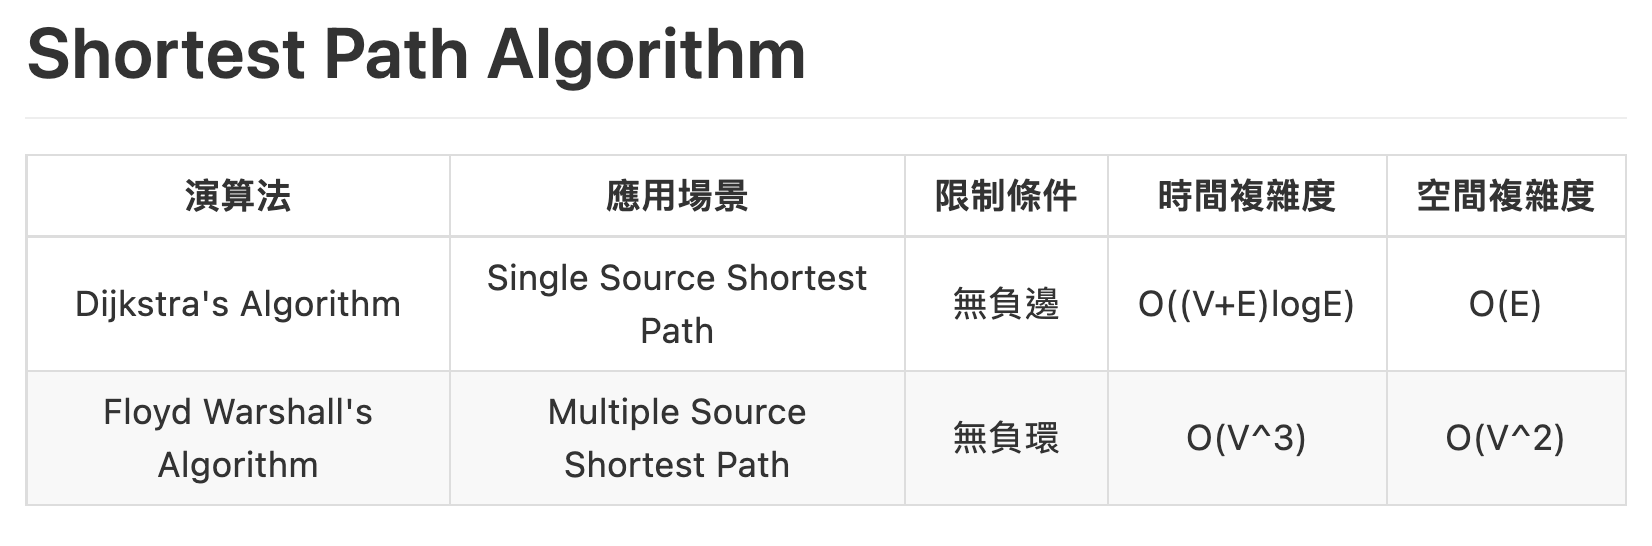
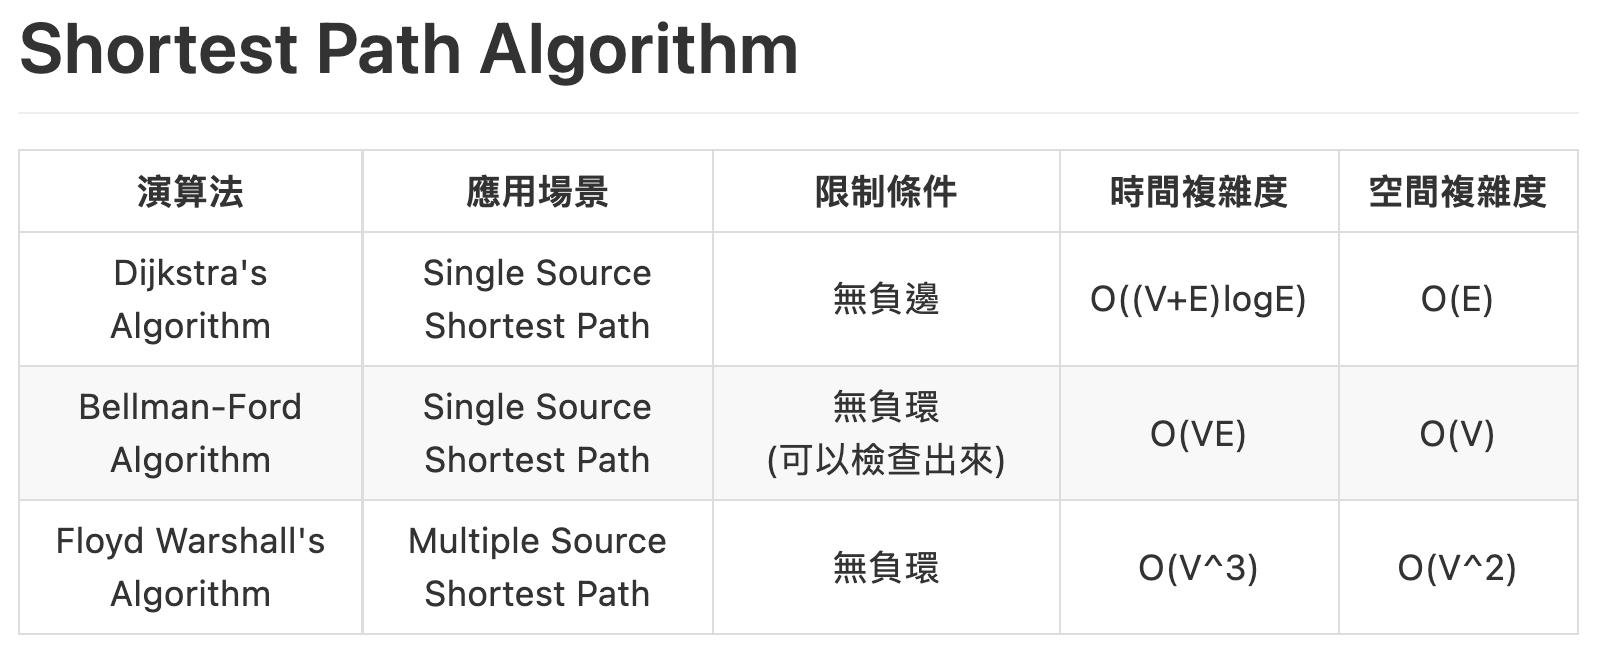
[Graph] Add more detailed introduction to shortest path algorithms

diff --git a/sprint/graph/shortest_path/overall.html b/sprint/graph/shortest_path/overall.html
@@ -27,6 +27,13 @@
                 <td>O(E)</td>
             </tr>
             <tr>
+                <td>Bellman-Ford Algorithm</td>
+                <td>Single Source Shortest Path</td>
+                <td>無負環(可以檢查出來)</td>
+                <td>O(VE)</td>
+                <td>O(V)</td>
+            </tr>
+            <tr>
                 <td>Floyd Warshall's Algorithm</td>
                 <td>Multiple Source Shortest Path</td>
                 <td>無負環</td>

diff --git a/sprint/graph/shortest_path/node.md b/sprint/graph/shortest_path/node.md
@@ -1,0 +1,149 @@
+# Shortest Path Algorithm
+## 常見的 shortest path algorithm
+<img src="./overall.img">
+<br>
+
+## 常見的縮寫
+- SSSP: Single-Source Shortest Path
+- MSSP: Multiple-Source Shortest Path
+
+<br>
+
+## Fundamentals
+1. Path Relaxation Property
+2. Convergence Property
+
+> Reference
+> [Fundamentals](http://alrightchiu.github.io/SecondRound/shortest-pathintrojian-jie.html)
+
+<br>
+
+## Dijkstra's Algorithm
+### Feature
+1. 是最快的 SSSP 演算法
+2. 限制條件是「圖上沒有負邊」
+3. 可以紀錄 parent 來回溯路徑
+
+<br>
+
+## Bellman-Ford Algorithm
+### Feature
+1. 是一個 SSSP 演算法
+2. 時間複雜度稍差一點，但是也有 O(VE)
+3. 非常 robust，基本上沒有限制條件
+4. 可以檢查負環
+4. 可以紀錄 parent 來回溯路徑
+
+### 核心概念
+- 迴圈跑 |V-1| 次，每次都把所有 edge relax 一次。
+    對任何一條路徑來說，因為圖上沒有環，所以最多只會由 |V-1| 個 edge 組成。
+    我們把 |V-1| x |E| 的所有 relaxation 攤開來看，會發現任何一條路徑
+    的所有 edge，一定有被按照「起點至終點」的順序 relax 一次。
+    而根據 Path Relaxation Property，我們可以知道每條路徑都會是最短路徑
+
+- 檢查負環
+    - 前面有提到，若整張圖沒有負環(即代表從 starting vertex 至圖上任何一點
+      一定有 shortest path/不通)，而事實上 path-relaxation property 也
+      是運用到這點才能證明出來。
+      
+      所以，"如果經過 |V-1| 次迴圈，還有邊可以被 relax，那就說明整張圖有出現負環。"
+    
+    - 因此，檢查方法就是再跑一個 |E| 次的迴圈，檢查每條邊是否還可以被 relax，
+      如果有任何一條邊可以被 relax，代表有負環。
+
+### Template
+```C++
+// Undirected Graph Version
+vector<int> bellman_ford(int n, vector<vector<int>>& edges, int start) {
+    vector<int> dis(n, 10000000);
+    dis[start] = 0;
+    for (int i = 0; i < n-1; i ++) {
+        for (auto& edge: edges) {
+            if (dis[edge[0]] + edge[2] < dis[edge[1]]) {
+                dis[edge[1]] = dis[edge[0]] + edge[2];
+            }
+            if (dis[edge[1]] + edge[2] < dis[edge[0]]) {
+                dis[edge[0]] = dis[edge[1]] + edge[2];
+            }
+        }
+    }
+
+    // Detect Negative Cycles
+    bool negCycle = false;
+    for (auto& edge: edges) {
+        if (dis[edge[0]] + edge[2] < dis[edge[1]]) {
+            negCycle = true;
+        }
+        if (dis[edge[1]] + edge[2] < dis[edge[0]]) {
+            negCycle = true;
+        }
+    }
+
+    return dis;
+}
+
+// Directed Graph Version
+vector<int> bellman_ford(int n, vector<vector<int>>& edges, int start) {
+    vector<int> dis(n, 10000000);
+    dis[start] = 0;
+    for (int i = 0; i < n-1; i ++) {
+        for (auto& edge: edges) {
+            if (dis[edge[0]] + edge[2] < dis[edge[1]]) {
+                dis[edge[1]] = dis[edge[0]] + edge[2];
+            }
+        }
+    }
+
+    // Detect Negative Cycles
+    bool negCycle = false;
+    for (auto& edge: edges) {
+        if (dis[edge[0]] + edge[2] < dis[edge[1]]) {
+            negCycle = true;
+        }
+    }
+
+    return dis;
+}
+```
+
+<br>
+
+## Floyd-Warshall Algorithm
+### Feature
+1. 是一個 MSSP 演算法
+2. 限制條件是「沒有負環」
+3. 無法得到最短路徑，只能得到最短距離
+
+### Template
+```C++
+#include <vector>
+using namespace std;
+
+vector<vector<int>> floyd(int n, vector<vector<int>>& edges) {
+    vector<vector<int>> G(n, vector<int>(n, 1000000));
+    
+    // Undirected Graph
+    for (auto& edge: edges) {
+        G[edge[0]][edge[1]] = edge[2];
+        G[edge[1]][edge[0]] = edge[2];
+    }
+
+    for (int i = 0; i < n; i ++) {
+        for (int j = 0; j < n; j ++) {
+            for (int k = 0; k < n; k ++) {
+                if (G[j][i] + G[i][k] < G[j][k]) {
+                    G[j][k] = G[j][i] + G[i][k];
+                }
+            }
+        }
+    }
+}
+```
+
+<br>
+
+## Reference
+> [Shortest-Path Fundamental](http://alrightchiu.github.io/SecondRound/shortest-pathintrojian-jie.html)
+> [Floyd-Warshall](https://yuihuang.com/floyd-warshall-algorithm/)
+> [Bellman-Ford](http://alrightchiu.github.io/SecondRound/single-source-shortest-pathbellman-ford-algorithm.html#bf)
+> [Dijkstra's](http://alrightchiu.github.io/SecondRound/single-source-shortest-pathdijkstras-algorithm.html)
